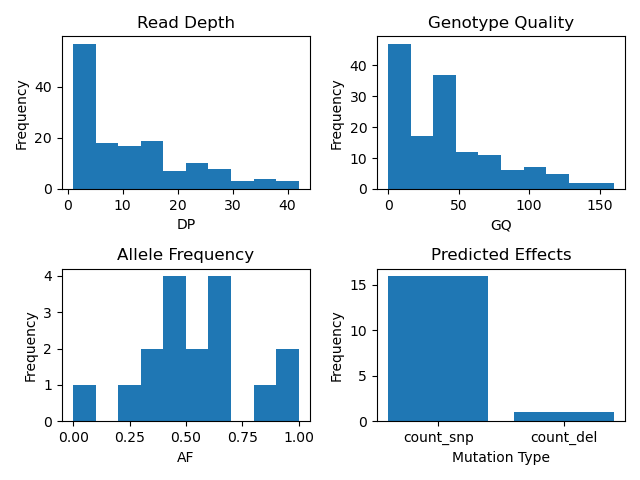
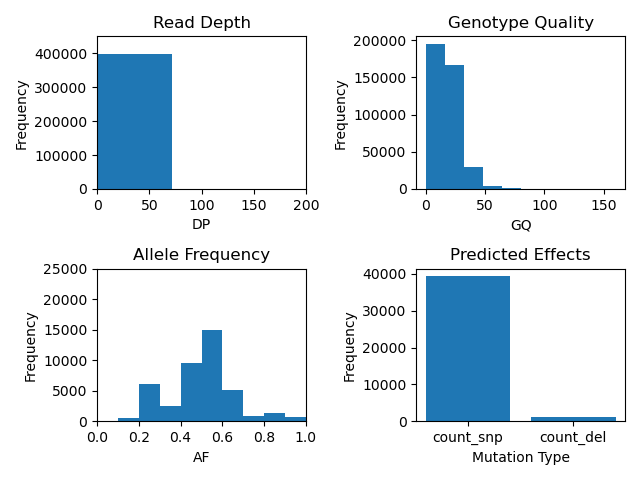
add updated week 5 files

diff --git a/week5/variation_analysis.py b/week5/variation_analysis.py
@@ -9,7 +9,7 @@ predicted_muts=[]
 
 #not sure how to get predicted effects
 
-for line in open("head_var.vcf"):
+for line in open("annotated_var.vcf"):
     if line.startswith('#'):
         continue
     fields=[]
@@ -25,12 +25,11 @@ for line in open("head_var.vcf"):
     split_info=info.split(";")
     allele=split_info[3]
     AF=allele.split("=")
-    allele_frequency_AF.append(float(AF[1]))
+    allele_frequency_AF.append((AF[1]))
     predict_mut=split_info[-2]
     predicted_muts.append(predict_mut)
 
 effects_dict={"count_snp":0,"count_del":0}
-
 
 for value in range(len(predicted_muts)):
 	if predicted_muts[value]=="TYPE=snp":
@@ -38,13 +37,18 @@ for value in range(len(predicted_muts)):
 	elif predicted_muts[value]=="TYPE=del":
 		effects_dict["count_del"]+=1
 
-
+float_AF=[]
+for value in range(len(allele_frequency_AF)):
+	if "," in allele_frequency_AF[value]:
+		continue
+	float_AF.append(float(allele_frequency_AF[value]))
 
 fig, ((ax1, ax2), (ax3, ax4)) = plt.subplots(2,2)
 
 ax1.hist(read_depth_DP)
 ax1.set_title( "Read Depth" ) 
 ax1.set_xlabel("DP")
+ax1.axis([0,200,0,450000])
 ax1.set_ylabel("Frequency")
 
 ax2.hist(genotype_quality_GQ)
@@ -52,9 +56,10 @@ ax2.set_title( "Genotype Quality" )
 ax2.set_xlabel("GQ")
 ax2.set_ylabel("Frequency")
 
-ax3.hist(allele_frequency_AF)
+ax3.hist(float_AF)
 ax3.set_title( "Allele Frequency" ) 
 ax3.set_xlabel("AF")
+ax3.axis([0.0,1.0,0, 25000])
 ax3.set_ylabel("Frequency")
 
 ax4.bar(list(effects_dict.keys()), list(effects_dict.values()))
@@ -65,4 +70,4 @@ ax4.set_ylabel("Frequency")
 plt.tight_layout()
 fig.savefig( "variation.png" )
 #plt.show()
-#plt.close( fig )"""
+#plt.close( fig )
